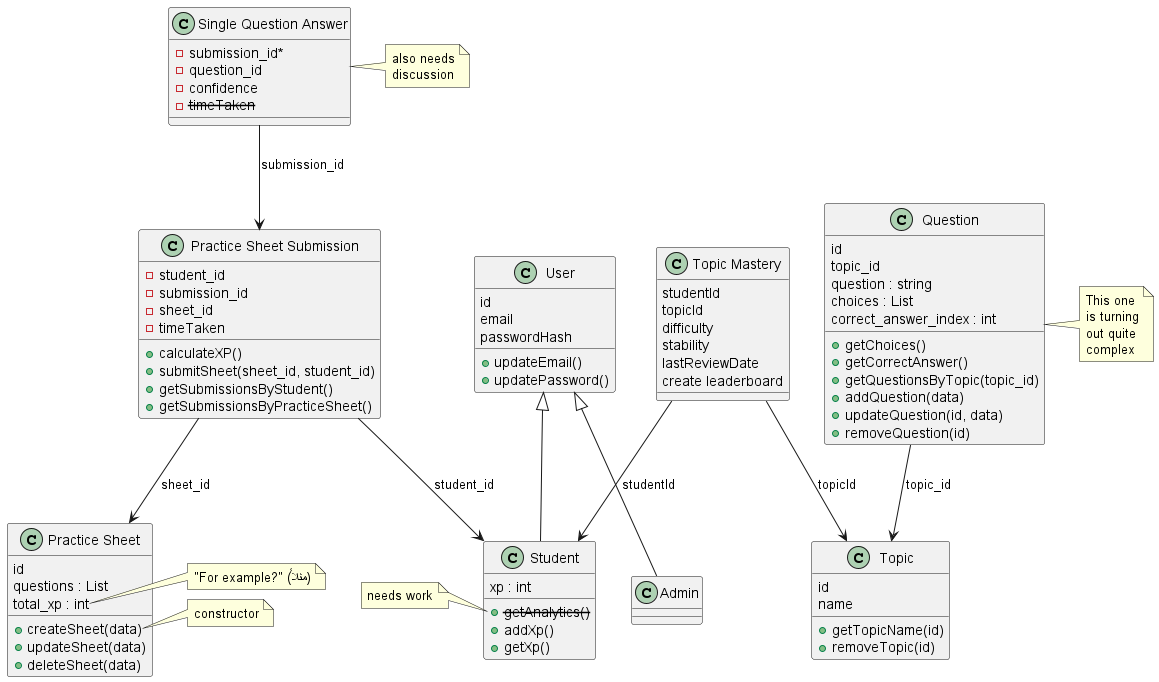
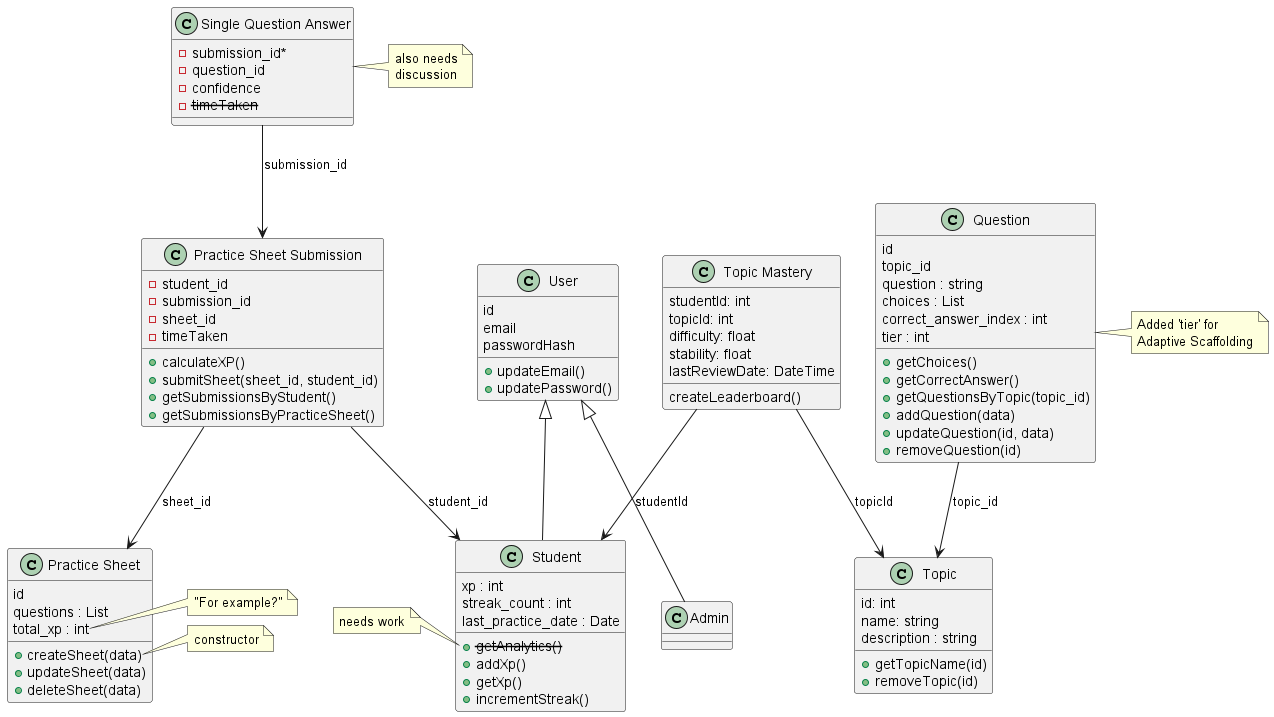
feat: Update class diagram and models with new fields and methods
- Added `streak_count` and `last_practice_date` to the Student class.
- Introduced `description` and `parent_module` fields in the Topic model.
- Added `tier` field to the Question model for adaptive scaffolding.
- Updated methods in TopicMastery and PracticeSheet classes.
- Revised class diagram to reflect these changes.
- Added meeting notes for future reference.
- Updated package-lock.json with new dependencies including mathlive and compute-engine.

diff --git a/questions/models.py b/questions/models.py
@@ -1,11 +1,11 @@
 from django.db import models
-from django.conf import settings  # To refer to the User model
-
-# We need to reference the Student model from the users app
+from django.conf import settings 
 from users.models import Student
 
 class Topic(models.Model):
     name = models.CharField(max_length=255)
+    description = models.TextField(blank=True, help_text="Short summary of the topic") # <--- NEW
+    parent_module = models.CharField(max_length=255, blank=True, help_text="e.g. Discrete Math > Logic") # <--- NEW
     
     def __str__(self):
         return self.name
@@ -13,15 +13,16 @@ class Topic(models.Model):
 class Question(models.Model):
     topic = models.ForeignKey(Topic, on_delete=models.CASCADE, related_name='questions')
     text = models.TextField(help_text="The question string")
-    
-    # specific to Postgres - perfect for "choices: List"
-    # Format example: ["Paris", "London", "Berlin"]
     choices = models.JSONField(default=list) 
+    correct_answer_index = models.IntegerField()
     
-    correct_answer_index = models.IntegerField(help_text="Index of the correct answer in the choices list")
+    # Adaptive Scaffolding Field
+    tier = models.IntegerField(default=1, help_text="1=Concept, 2=Application, 3=Synthesis") # <--- NEW
     
     def __str__(self):
-        return f"{self.text[:50]}..."
+        return f"[{self.topic.name}] Tier {self.tier}: {self.text[:50]}..."
+
+# ... Keep PracticeSheet, Submission, Answer, TopicMastery as they were ...
 
 class PracticeSheet(models.Model):
     # If a sheet is a collection of specific questions:

diff --git a/notes.md b/notes.md
@@ -1,0 +1,19 @@
+# Meeting Notes
+
+1. XP goes to every question
+
+2. Class diagram function placement
+
+3. Split Register and Login use cases
+
+4. Use case 2 needs a sequence diagram
+
+5. Add use cases for Dashboards
+
+6. Use case 3 needs to be split into smaller use cases
+
+7. Consistency in sequence diagrams
+
+8. UC-4 (Manage) split into CRUD (4 use cases), ok?
+
+9. Chapters 5 and 6 this term?